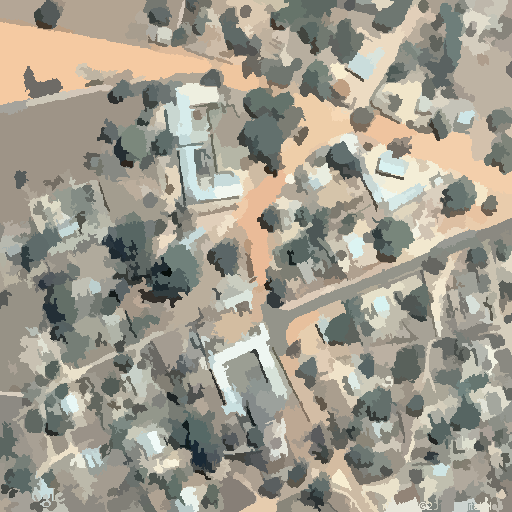
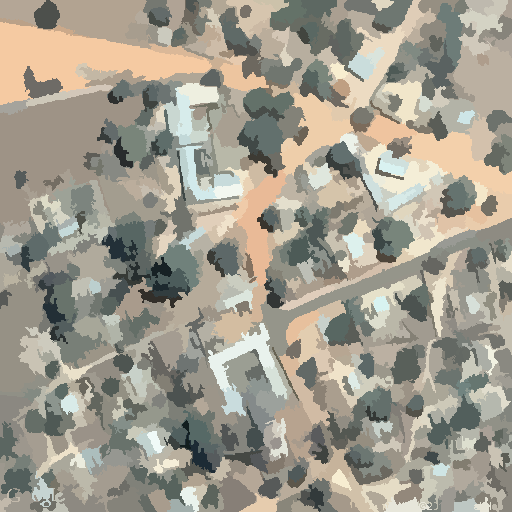
morphological operations, vegetation removal, and polygon detection tests

diff --git a/buildingDetect/rectDetect.py b/buildingDetect/rectDetect.py
@@ -1,36 +1,62 @@
 import cv2 as cv
 import numpy as np
 
-im = cv.imread('../images/shapes.png')
+# load color image
+im = cv.imread('../images/chibombo1-seg.png')
+xdim, ydim, nchannels = im.shape
+
+# morphological opening and closing
+kernel = np.ones((3,3), np.uint8)
+im = cv.morphologyEx(im, cv.MORPH_OPEN, kernel)
+im = cv.morphologyEx(im, cv.MORPH_CLOSE, kernel)
+
 imcopy = im.copy()
 gray = cv.cvtColor(im, cv.COLOR_RGB2GRAY)
 #thresh = cv.adaptiveThreshold(gray, 255, cv.ADAPTIVE_THRESH_GAUSSIAN_C, cv.THRESH_BINARY, 11, 2)
 
-# show original image
-cv.imshow('image', im)
+cv.imshow('image', gray)
 cv.waitKey(0)
-cv.destroyAllWindows()
 
-# find contours, fit to polygon, and determine if rectangular
-contours, hierarchy = cv.findContours(gray, mode=cv.RETR_LIST, method=cv.CHAIN_APPROX_SIMPLE)
+num_buildings = 0
 
-for c in contours:
-  poly = cv.approxPolyDP(np.array(c), 0.02*cv.arcLength(c,True), True)
-  # bounding box
-  rect = cv.minAreaRect(c)
-  box = cv.cv.BoxPoints(rect)
-  box = np.int0(box)
-  if cv.isContourConvex(poly):
-    cv.drawContours(im, [box], 0, (0,0,255), 1)
-  if len(poly) == 4:
-    cv.drawContours(imcopy, [box], 0, (0,0,255), 1)
+for i in xrange(255):
+  # threshold the grayscale image at that value
+  #ret, binary = cv.threshold(gray, i, 255, cv.THRESH_BINARY)
+  binary = np.zeros((xdim, ydim), np.uint8)
+  binary[gray == i] = 255
 
+  # find contours, fit to polygon, and determine if rectangular
+  contours, hierarchy = cv.findContours(binary, mode=cv.RETR_LIST, method=cv.CHAIN_APPROX_SIMPLE)
+
+  for c in contours:
+    poly = cv.approxPolyDP(np.array(c), 0.05*cv.arcLength(c,True), True)
+    carea = cv.contourArea(c)
+    polyarea = cv.contourArea(poly)
+    hull = cv.convexHull(c)
+    hullarea = cv.contourArea(hull)
+
+    # bounding box
+    rect = cv.minAreaRect(c)
+    box = cv.cv.BoxPoints(rect)
+    box = np.int0(box)
+
+    if polyarea < 2048 and carea < 2048:
+      cv.drawContours(im, [c], 0, (0,0,255), 1)
+    if len(poly) < 10 and len(poly) > 3 and carea < 2048 and carea > 5 \
+        and abs(polyarea/carea - 1) < 0.25:
+      num_buildings += 1
+      cv.drawContours(imcopy, [poly], 0, (0,0,255), 1)
+
+# show images
 cv.imshow('all bounding boxes', im)
 cv.waitKey(0)
-cv.destroyAllWindows()
 
 cv.imshow('rectangles only', imcopy)
 cv.waitKey(0)
 cv.destroyAllWindows()
 
-cv.imwrite('../images/shapes-test.png', imcopy)
+#cv.imwrite('../images/shapes-test.png', imcopy)
+
+print num_buildings
+
+

diff --git a/buildingDetect/segment.py b/buildingDetect/segment.py
@@ -2,17 +2,66 @@ import cv2 as cv
 import pymeanshift as ms
 import numpy as np
 
-im = cv.imread('../images/chibombo1.png')
-cv.imshow('image', im)
-cv.waitKey(0)
-cv.destroyAllWindows()
 
-im = cv.bilateralFilter(im, 15, 41, 41)
-seg, labels, num_regions = ms.segment(im, spatial_radius=6, range_radius=4.5, min_density=50)
+def vegetationMask(im, xdim, ydim):
+  # compute color invariant
+  [R,G,B] = cv.split(im)
+  blue = B.astype(float)
+  green = G.astype(float)
 
-cv.imshow('segmented', seg)
-cv.waitKey(0)
-cv.destroyAllWindows()
+  colInvarIm = np.zeros(shape=(xdim, ydim))
 
-cv.imwrite('../images/chibombo1-seg.png', seg)
+  for i in xrange(xdim):
+    for j in xrange(ydim):
+      if (green[i,j] + blue[i,j]) < np.finfo(float).eps:
+        colInvarIm[i,j] = 2
+      else:
+        colInvarIm[i,j] = (4./np.pi)*np.arctan((green[i,j] - blue[i,j])/(green[i,j] + blue[i,j]))
 
+  # normalize to [0,255]
+  colInvarIm += abs(colInvarIm.min())
+  colInvarIm *= 255.0/colInvarIm.max()
+  colInvarIm = colInvarIm.astype('uint8')
+
+  # threshold to detect vegetation
+  thresh, vegetation = cv.threshold(colInvarIm, 0, 255, cv.THRESH_OTSU)
+
+  cv.imshow('color invariant image', colInvarIm)
+  cv.waitKey(0)
+  cv.imshow('vegetation', vegetation)
+  cv.waitKey(0)
+  cv.destroyAllWindows()
+
+  return vegetation
+
+def main():
+  im = cv.imread('../images/chibombo1.png', cv.CV_LOAD_IMAGE_COLOR)
+  xdim, ydim, nchannels = im.shape
+  im = cv.bilateralFilter(im, 15, 41, 41)
+
+  seg, labels, num_regions = ms.segment(im, spatial_radius=6, range_radius=4.5, min_density=100)
+  seg2 = np.copy(seg)
+
+  hists = np.bincount(np.reshape(labels, xdim*ydim))
+  hmean = np.mean(hists)
+  hstd = np.std(hists)
+  print hmean
+
+  for i in xrange(num_regions):
+    if hists[i] < 15 or hists[i] > 2*hstd + hmean:
+      seg2[labels == i, :] = 0
+
+
+  cv.imshow('image', im)
+  cv.waitKey(0)
+  cv.imshow('segmented1', seg)
+  cv.waitKey(0)
+
+  cv.imshow('segmented2', seg2)
+  cv.waitKey(0)
+  cv.destroyAllWindows()
+
+  cv.imwrite('../images/chibombo1-seg.png', seg)
+
+if __name__ == '__main__':
+  main()

diff --git a/buildingDetect/simpleRectDetect.py b/buildingDetect/simpleRectDetect.py
@@ -1,0 +1,36 @@
+import cv2 as cv
+import numpy as np
+
+# load color image
+im = cv.imread('../images/shapes.png')
+imcopy = im.copy()
+gray = cv.cvtColor(im, cv.COLOR_RGB2GRAY)
+#thresh = cv.adaptiveThreshold(gray, 255, cv.ADAPTIVE_THRESH_GAUSSIAN_C, cv.THRESH_BINARY, 11, 2)
+
+# find contours, fit to polygon, and determine if rectangular
+contours, hierarchy = cv.findContours(gray, mode=cv.RETR_LIST, method=cv.CHAIN_APPROX_SIMPLE)
+
+for c in contours:
+  poly = cv.approxPolyDP(np.array(c), 0.02*cv.arcLength(c,True), True)
+
+  # bounding box
+  rect = cv.minAreaRect(c)
+  box = cv.cv.BoxPoints(rect)
+  box = np.int0(box)
+
+  cv.drawContours(im, [box], 0, (0,0,255), 1)
+  if len(poly) == 4:
+    cv.drawContours(imcopy, [box], 0, (0,0,255), 1)
+
+# show images
+cv.imshow('all bounding boxes', im)
+cv.waitKey(0)
+
+cv.imshow('rectangles only', imcopy)
+cv.waitKey(0)
+cv.destroyAllWindows()
+
+cv.imwrite('../images/shapes-test.png', imcopy)
+
+
+
